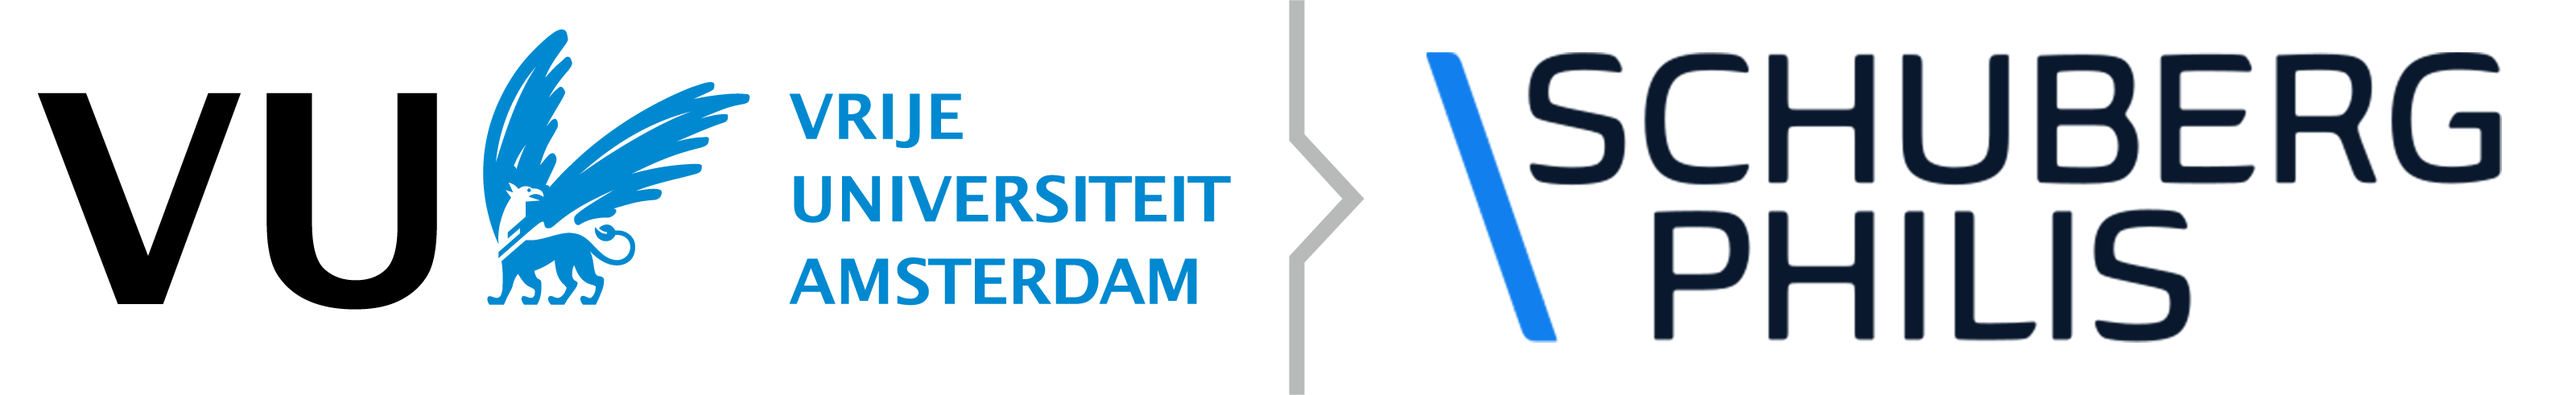
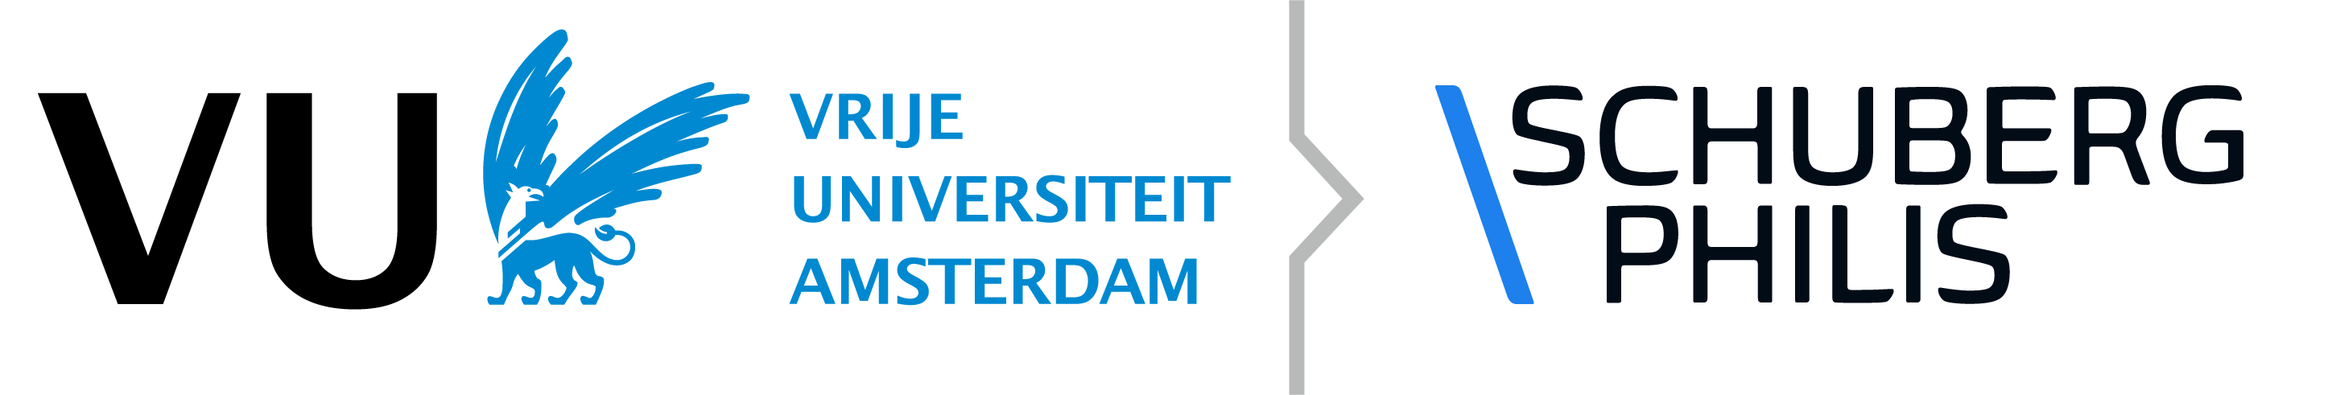
updated teams page, added sbp lab

Changed region(s): [[0.0, 0.0, 0.9941, 1.0]]

diff --git a/assets/css/custom-styles.css b/assets/css/custom-styles.css
@@ -41,20 +41,29 @@
 }
 
 .team-member {
-    text-align: center;
+    text-align: top;
 }
-
-.team-member-role {
+.team-member-name {
     font-size: larger;
+    margin-top: 10px;
+    font-family: 'Open Sans', 'Helvetica Neue', Helvetica, Arial, sans-serif;
+
+}
+.team-member-role {
+    font-size: large;
+    font-family: "Roboto", sans-serif;
 }
 
 .team-member-affiliation {
     font-size: medium;
+    font-family: "Roboto", sans-serif;
+    color: #484747;
 }
 
 .team-member-container {
     display: inline-block;
-    width: 220px;
+    vertical-align: top;
+    width: 230px;
     margin-left: 30px;
 }
 

diff --git a/pages/team.md b/pages/team.md
@@ -27,7 +27,35 @@ title: Team
 </style>
 <hr>
 <div style="padding-top: 10px; padding-bottom: 30px; text-align:center;">
-      <h3 style="text-align:center;">Executive Board</h3>
+    <div class="team-section">
+        <h3 style="text-align:center; margin:40px">Core Team</h3>
+        {% for member in site.data.team %}
+            <div class="team-member-container" align= "center" style="padding-bottom: 10px; padding-top:20px;">
+                <img alt="Image" height = "230px" src="{{site.url}}{{member.image}}"/>
+                <div class="team-member team-member-name">{{member.name}}</div>
+                <div class="team-member team-member-role">{{member.role}}</div>
+                <div class="team-member team-member-affiliation">{{member.affiliation}}</div>
+            </div>
+        {% endfor %}   
+        </div>
+        <div class="team-section">
+                <hr>
+        <h3 style="text-align:center; margin:40px">Participating Researchers</h3>
+        {% for member in site.data.team_members %}
+            <div class="team-member-container" align= "center" style="padding-bottom: 10px; padding-top:20px;">
+                <img alt="Image" height = "230px" src="{{site.url}}{{member.image}}"/>
+                <div class="team-member team-member-name">{{member.name}}</div>
+                <!-- <div class="team-member team-member-role">{{member.role}}</div> -->
+                <div class="team-member team-member-affiliation">{{member.affiliation}}</div>
+            </div>
+        {% endfor %}   
+        </div>
+</div>
+
+    
+
+
+<!-- <h3 style="text-align:center;">Executive Board</h3>
       {% for member in site.data.board_members %}
         <div class="team-member-container" style="padding-top: 30px;" align= "center">
             <div class="team-member team-member-role">{{member.role}}</div>
@@ -35,8 +63,8 @@ title: Team
             <div class="team-member team-member-name">{{member.name}}</div>
             <div class="team-member team-member-affiliation">{{member.affiliation}}</div>
         </div>
-	  {% endfor %}
-<div class="team-sections">
+	  {% endfor %} -->
+<!-- <div class="team-sections">
     <div class="team-section">
         <h4 style="text-align:center;">Scientific Coordination</h4>
         {% for member in site.data.team_scientific_coord %}
@@ -60,12 +88,6 @@ title: Team
 </div>
 <hr>
  <h3 style="text-align:center; padding-top:30px; padding-bottom:30px">Participating researchers</h3>
-      {% for member in site.data.team_members %}
-        <div class="team-member-container" align= "center" style="padding-bottom: 10px; padding-top:20px;">
-            <img alt="Image" height = "200px" src="{{site.url}}{{member.image}}"/>
-            <div class="team-member team-member-name">{{member.name}}</div>
-            <div class="team-member team-member-affiliation">{{member.affiliation}}</div>
-        </div>
-	  {% endfor %}
-</div>
+      -->
+
 
